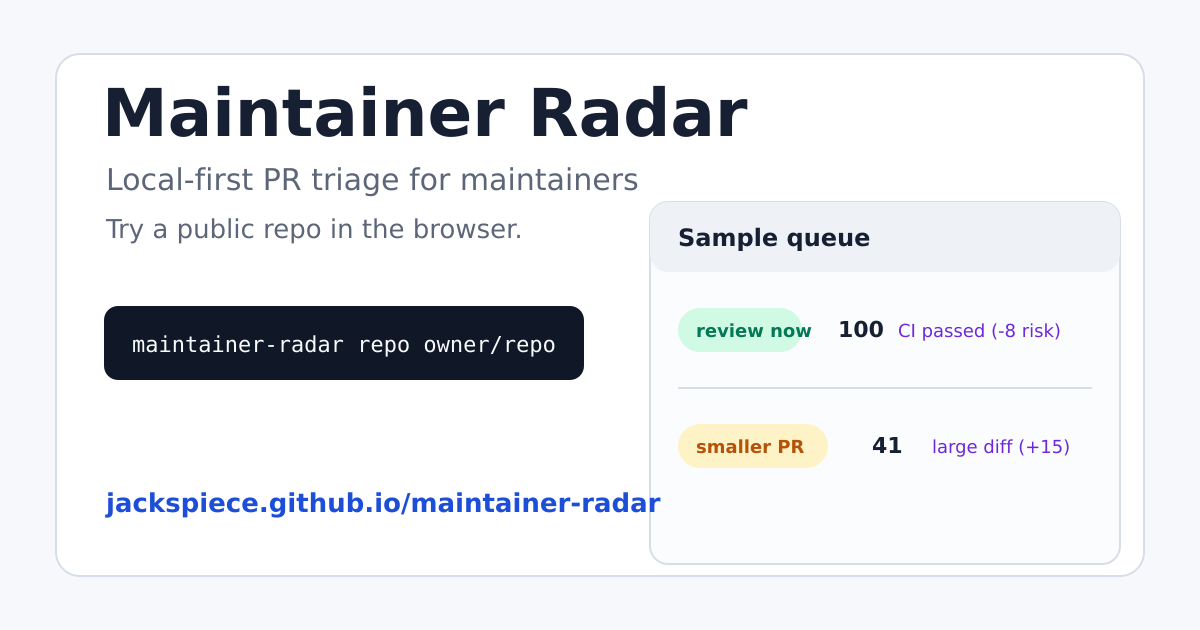
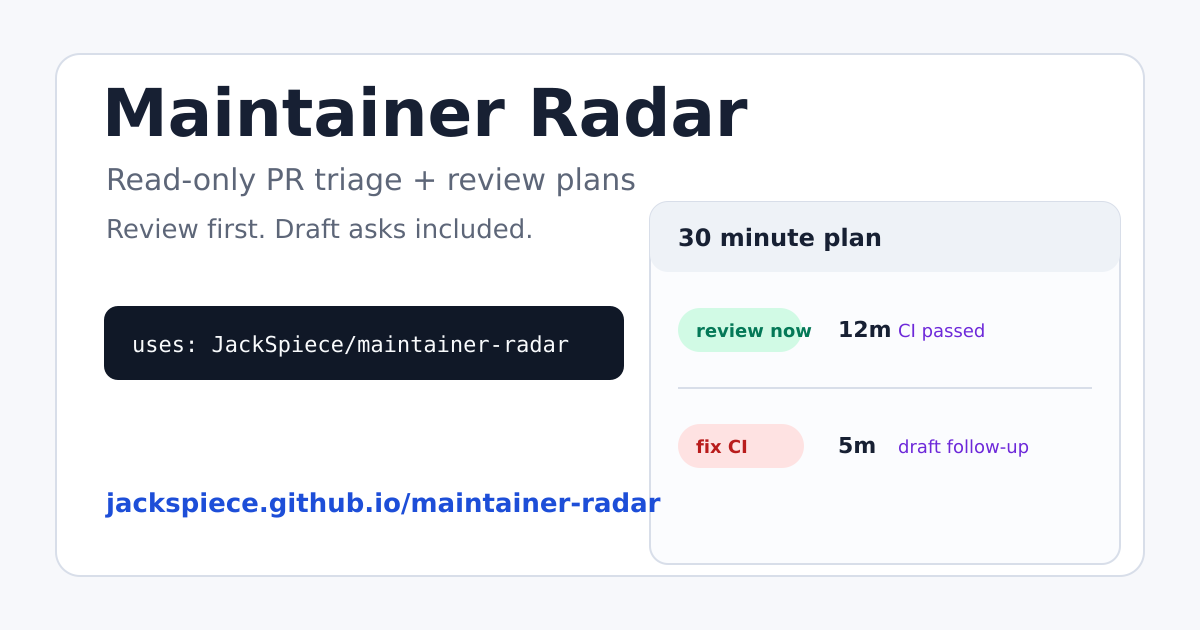
Refresh social preview positioning

diff --git a/docs/index.html b/docs/index.html
@@ -4,9 +4,9 @@
   <meta charset="utf-8">
   <meta name="viewport" content="width=device-width, initial-scale=1">
   <title>Maintainer Radar</title>
-  <meta name="description" content="GitHub Action and local CLI for read-only PR triage reports, with a no-install public repo preview.">
+  <meta name="description" content="Read-only PR triage reports and review plans for maintainers, with a no-install public repo preview.">
   <meta property="og:title" content="Maintainer Radar">
-  <meta property="og:description" content="GitHub Action and local CLI for read-only PR triage reports, with a no-install public repo preview.">
+  <meta property="og:description" content="Read-only PR triage reports and review plans for maintainers, with a no-install public repo preview.">
   <meta property="og:type" content="website">
   <meta property="og:url" content="https://jackspiece.github.io/maintainer-radar/">
   <meta property="og:image" content="https://jackspiece.github.io/maintainer-radar/assets/social-preview.png">
@@ -14,7 +14,7 @@
   <meta property="og:image:height" content="630">
   <meta name="twitter:card" content="summary_large_image">
   <meta name="twitter:title" content="Maintainer Radar">
-  <meta name="twitter:description" content="GitHub Action and local CLI for read-only PR triage reports, with a no-install public repo preview.">
+  <meta name="twitter:description" content="Read-only PR triage reports and review plans for maintainers, with a no-install public repo preview.">
   <meta name="twitter:image" content="https://jackspiece.github.io/maintainer-radar/assets/social-preview.png">
   <style>
     :root {

diff --git a/tests/test_pages_assets.py b/tests/test_pages_assets.py
@@ -43,7 +43,7 @@ class PagesAssetTests(unittest.TestCase):
         self.assertIn('href="browser-preview.html"', html)
         self.assertIn("https://github.com/JackSpiece/maintainer-radar/issues/new/choose", html)
         self.assertIn('<script src="assets/demo.js"></script>', html)
-        self.assertIn("GitHub Action and local CLI for read-only PR triage reports", html)
+        self.assertIn("Read-only PR triage reports and review plans for maintainers", html)
         self.assertIn('property="og:image"', html)
         self.assertIn("https://jackspiece.github.io/maintainer-radar/assets/social-preview.png", html)
         self.assertIn('name="twitter:card" content="summary_large_image"', html)
@@ -83,7 +83,8 @@ class PagesAssetTests(unittest.TestCase):
         svg = (ROOT / "docs" / "assets" / "social-preview.svg").read_text(encoding="utf-8")
 
         self.assertIn("Maintainer Radar", svg)
-        self.assertIn("GitHub Action for PR triage", svg)
+        self.assertIn("Read-only PR triage + review plans", svg)
+        self.assertIn("Draft asks included", svg)
         self.assertIn("uses: JackSpiece/maintainer-radar", svg)
         self.assertIn("jackspiece.github.io/maintainer-radar", svg)
 